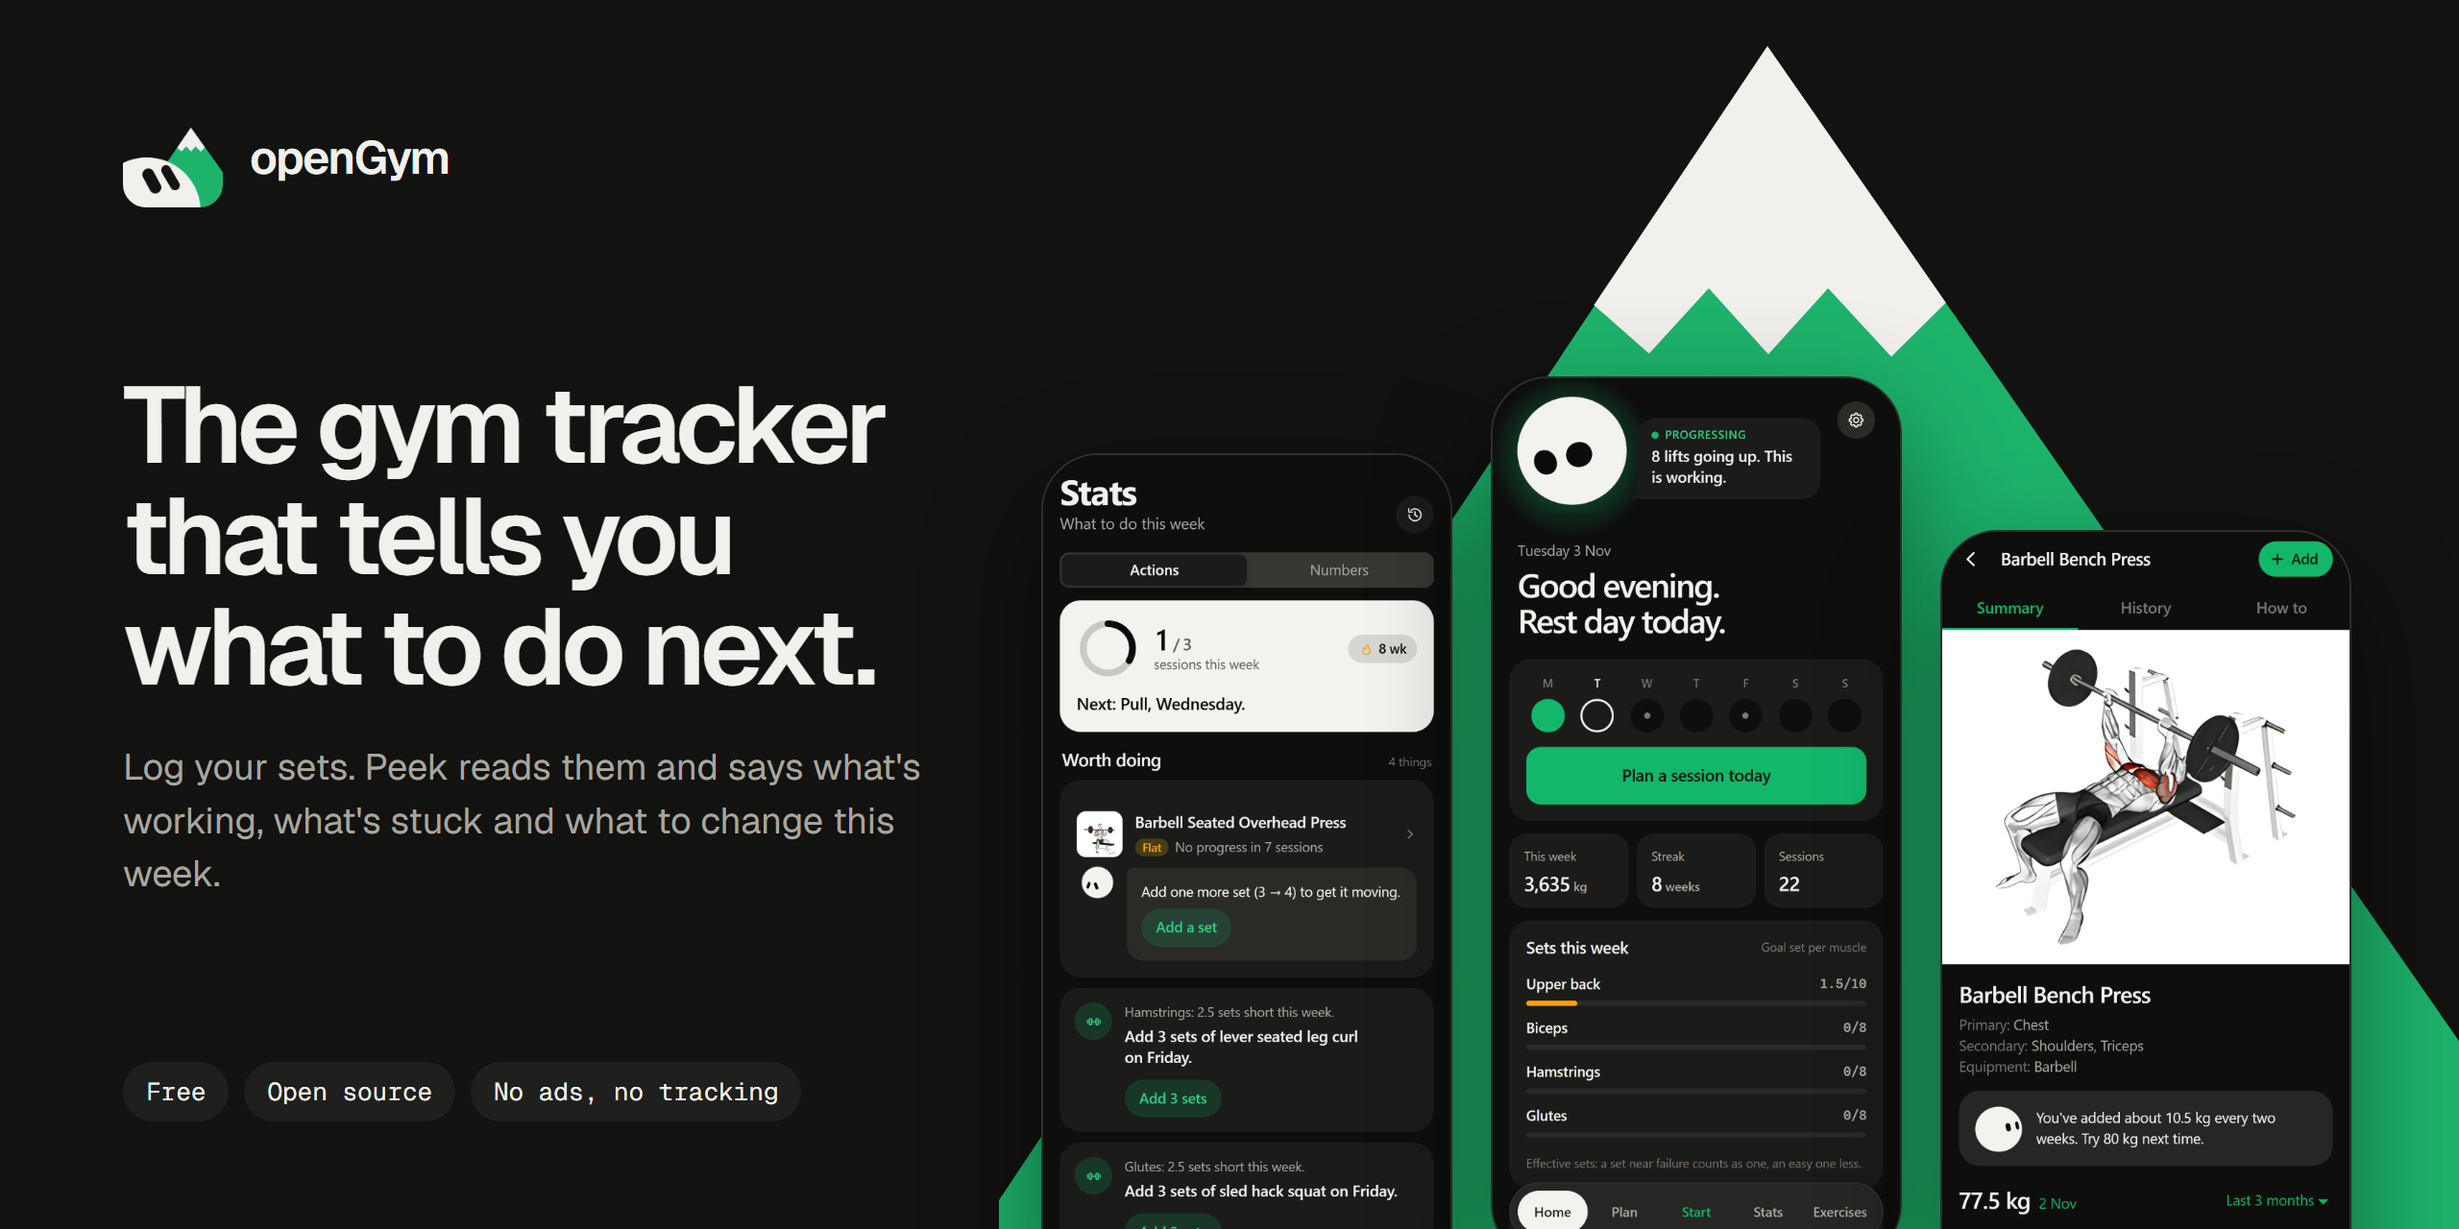
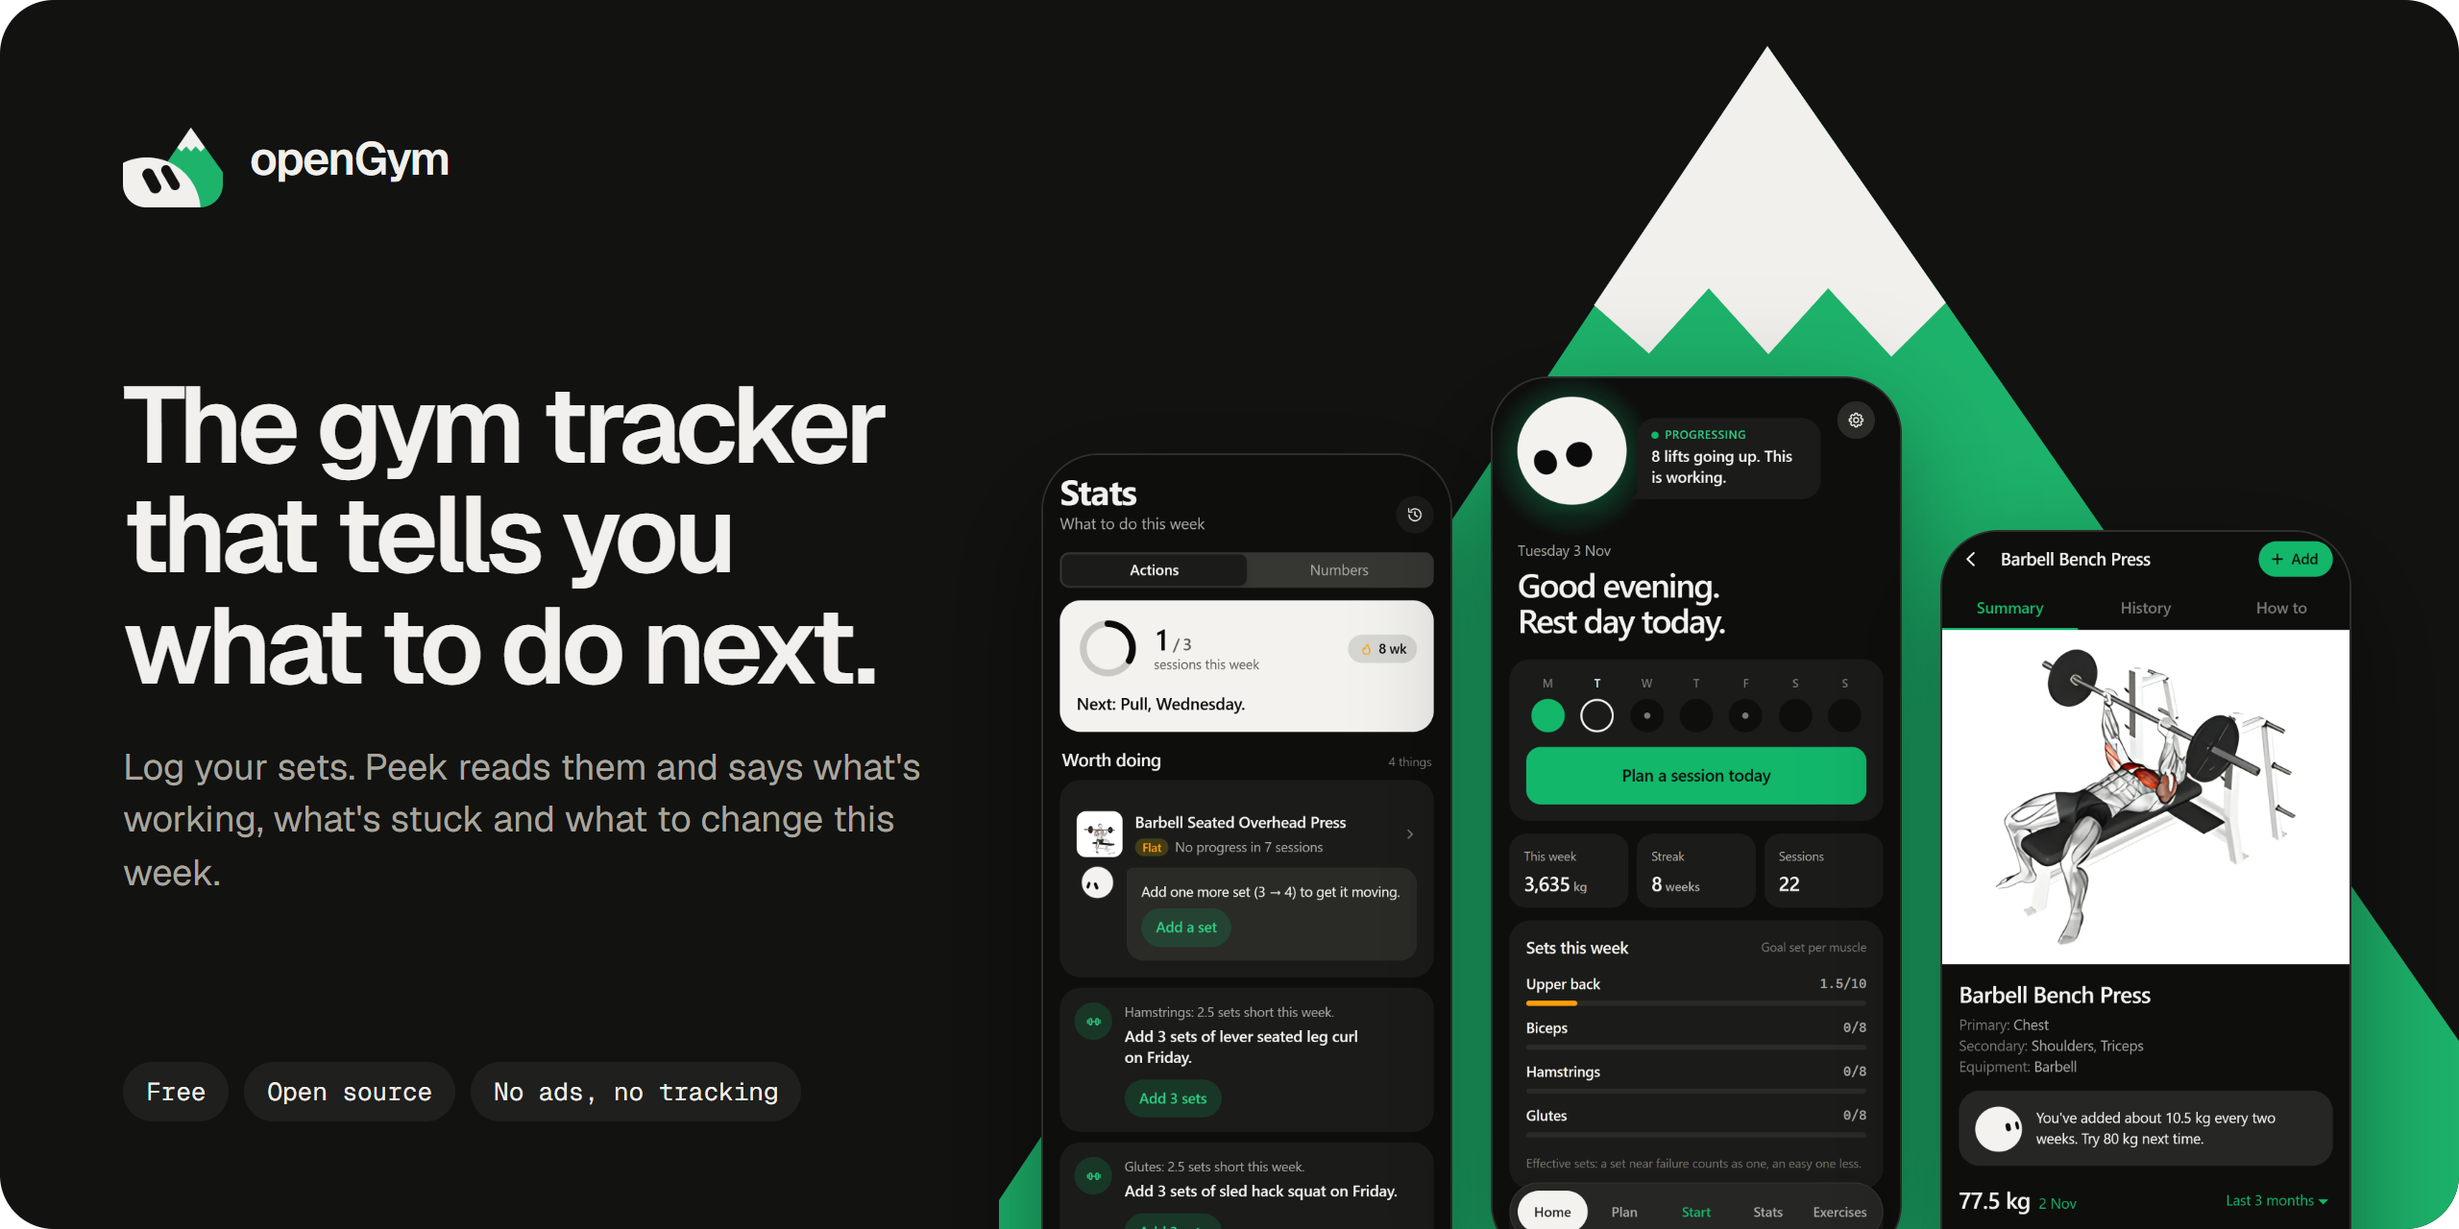
README rebuilt around a clip of the app; a live demo at /demo
README: opens on the hero and a short clip of the real app (Home, then
Stats, then two suggestions accepted with a tap), recorded from the demo
and laid into a phone frame as an animated WebP. A "Meet Peek" panel shows
the five verdicts as the app actually draws them, captured from the demo
lifters. The text is shorter: the pitch is two paragraphs, the feature
lists became one three-column table, and "Try it" leads to the demo. All
the images were designed on a Claude Design canvas with the app's design
system and rendered with transparent rounded corners, so they sit well on
GitHub's light and dark themes.

Live demo: device.html becomes the place to try openGym. It answers at
/demo (a rewrite in vercel.json), opens straight onto a lifter from
?demo=<scenario> so the README can link to each one, keeps the address in
step when you pick another, and its copy is written for a visitor rather
than for a developer checking a build. Loading a lifter still asks first if
the browser holds real training.

diff --git a/frontend/device.html b/frontend/device.html
@@ -3,8 +3,8 @@
 <head>
 <meta charset="UTF-8">
 <meta name="viewport" content="width=device-width,initial-scale=1,viewport-fit=cover">
-<title>openGym on iPhone</title>
-<meta name="description" content="The current build of openGym inside an iPhone frame, with demo data">
+<title>Try openGym</title>
+<meta name="description" content="Try openGym in your browser: pick a lifter with a few weeks of made-up training and see what Peek says.">
 <link rel="icon" type="image/png" href="icon-180.png">
 </head>
 <body>
@@ -31,14 +31,16 @@
 
   <aside class="dv-panel" id="panel">
     <button type="button" class="dv-close" id="close" aria-label="Close">×</button>
-    <h1>openGym <span>iPhone 15 Pro</span></h1>
+    <h1>openGym <span>Live demo</span></h1>
+    <p class="dv-lede">Pick a lifter. Each one comes with a few weeks of made-up training, so you can see what Peek says without logging a month of sessions.</p>
     <p class="dv-build" id="build"></p>
-    <h2>Demo data</h2>
+    <h2>Pick a lifter</h2>
     <div class="dv-scenes" id="scenes"></div>
-    <p class="dv-note">Loads a few weeks of made-up training into this browser, so you can see each thing the orb says. Mid-workout: tick the three sets, which are heavier than last time, the same, then lighter.</p>
+    <p class="dv-note">Everything stays in this browser. Try Busy week for the Stats suggestions, or Mid-workout and tick the three sets: heavier than last time, the same, then lighter.</p>
     <div class="dv-links">
       <button type="button" id="reload">Reload app</button>
-      <a href="index.html" target="_blank" rel="noopener">Open full screen ↗</a>
+      <a href="index.html" target="_blank" rel="noopener">Open the app ↗</a>
+      <a href="https://github.com/juan1232-cmyk/openGym" target="_blank" rel="noopener">Source ↗</a>
     </div>
   </aside>
   <button type="button" class="dv-fab" id="fab" aria-expanded="false" aria-controls="panel">Demo</button>

diff --git a/frontend/src/device/device.js b/frontend/src/device/device.js
@@ -76,6 +76,8 @@ const load = key => {
     } catch { /* private mode without storage: the app still opens, just without the demo */ }
   }, sc.path || '/home')
   document.querySelectorAll('.dv-scenes button').forEach(el => el.classList.toggle('on', el.dataset.key === key))
+  // the address names the lifter, so the page can be shared or linked to as it is
+  try { history.replaceState(null, '', '?demo=' + key) } catch { /* sandboxed: the link just won't update */ }
   panel(false)
 }
 
@@ -87,6 +89,10 @@ Object.entries(SCENARIOS).forEach(([key, sc]) => {
   el.addEventListener('click', () => load(key))
   scenes.appendChild(el)
 })
+// ?demo=stalled (from the README, or a shared link) opens straight onto that lifter
+const asked = new URLSearchParams(location.search).get('demo')
+if (asked && SCENARIOS[asked]) load(asked)
+
 document.getElementById('reload').addEventListener('click', () => frame.contentWindow.location.reload())
 
 // on a phone there's no frame — the app is the page — and the panel is a sheet behind a button

diff --git a/frontend/src/device/device.css b/frontend/src/device/device.css
@@ -56,7 +56,8 @@ button{font:inherit;color:inherit;cursor:pointer}
 .dv-scenes button[data-verdict=slipping]::before,.dv-scenes button[data-verdict=stalled]::before{background:#e08600}
 .dv-scenes button[data-verdict=away]::before{background:#e5372b}
 .dv-note{font-size:13px;color:#a9a8a1}
-.dv-links{display:flex;align-items:center;gap:16px;margin-top:4px;font-size:14px}
+.dv-lede{font-size:15px;line-height:1.45;color:#d7d6cf}
+.dv-links{display:flex;flex-wrap:wrap;align-items:center;gap:10px 16px;margin-top:4px;font-size:14px;white-space:nowrap}
 .dv-links button{border:0;padding:8px 14px;border-radius:99px;background:#f3f2ee;color:#0b0b0b;font-weight:600}
 .dv-links a{color:#f3f2ee}
 .dv-fab,.dv-close{display:none}

diff --git a/README.md b/README.md
@@ -1,20 +1,16 @@
 <div align="center">
 
-<a href="https://open-gym-lac.vercel.app"><img src="assets/readme/hero.png" alt="openGym: the gym tracker that tells you what to do next. Three phone screens show Peek's verdict on Home, this week's suggested actions in Stats, and a rising bench press trend." width="100%"></a>
+<a href="https://open-gym-lac.vercel.app/demo"><img src="assets/readme/hero.png" alt="openGym: the gym tracker that tells you what to do next. Three phone screens show Peek's verdict on Home, this week's suggestions in Stats, and a rising bench press trend." width="100%"></a>
 
 <br><br>
 
-**Log your sets. Peek, the orb on the Home screen, reads them and tells you whether you're
-getting stronger, which lift has gone flat and which muscle your plan leaves short.**
-Every suggestion comes with its reason and one button to act on it.
+### [Try the live demo →](https://open-gym-lac.vercel.app/demo) &nbsp;&nbsp;·&nbsp;&nbsp; [Open the app](https://open-gym-lac.vercel.app)
 
-### [Open the app →](https://open-gym-lac.vercel.app)
+<sub>Free and open source. No ads, no tracking, no sign-up to try it.</sub>
 
-<sub>Nothing to install and no sign-up to try it. Make an account when you want it on a second device.</sub>
+<br><br>
 
-<br>
-
-[![Live app](https://img.shields.io/badge/app-live-1db36b?style=flat-square)](https://open-gym-lac.vercel.app)
+[![Live demo](https://img.shields.io/badge/demo-live-1db36b?style=flat-square)](https://open-gym-lac.vercel.app/demo)
 [![License: AGPL v3](https://img.shields.io/badge/license-AGPL--3.0-1db36b?style=flat-square)](LICENSE)
 ![PWA](https://img.shields.io/badge/PWA-installable-f1f0ec?style=flat-square)
 ![No tracking](https://img.shields.io/badge/telemetry-none-f1f0ec?style=flat-square)
@@ -24,97 +20,78 @@ Every suggestion comes with its reason and one button to act on it.
 
 <br>
 
-<img src="assets/readme/screens.png" alt="Four screens, four answers. Home: am I getting stronger? Stats: what should I change this week? Exercise: what weight do I try next? Workout: what did I lift last time?" width="100%">
+<a href="https://open-gym-lac.vercel.app/demo?demo=busy"><img src="assets/readme/see-it-work.webp" alt="A clip of the app: Home says lifts are going up, Stats lists what's worth doing this week, and one tap adds a set to a stuck overhead press and leg curls to Friday's Legs." width="100%"></a>
 
-## Why another gym app
+## Most gym apps are notebooks
 
-Most trackers are notebooks: they store what you lifted and leave you to work out whether
-it's working. openGym tries to answer that question for you. It works through your log the way a
-coach would, decides whether you're progressing, holding, slipping or stuck, and turns that
-into something you can do this week, such as adding a set, swapping a lift, deloading or moving
-a missed session.
+They remember what you lifted and leave the rest to you. openGym reads your log the way a coach
+would and tells you what it means: whether you're getting stronger, which lift has gone flat,
+which muscle your plan leaves short, and the one change worth making this week.
 
-It's also mine to learn on: this is my first real project, forked from an open-source tracker
-and rebuilt around that coaching idea. More on that under [Credits](#credits).
+Every suggestion shows its reason. Every one comes with a button that does it, and another that
+takes it back.
 
-## Meet Peek
-
-Peek is the orb at the top of Home. It looks at the lifts you've trained in the last four weeks
-and settles on one verdict:
-
-| Verdict | When |
-|---|---|
-| **Progressing** | your main lifts are trending up |
-| **Holding** | they're steady, within about 1% over two weeks |
-| **Slipping** | they're trending down |
-| **Stalled** | two or more planned lifts have missed their targets session after session |
-| **Away** | nothing logged for 10+ days, so there's nothing to judge |
-
-The verdict is deliberately boring: the same log always gives the same answer, and it reads the
-same trend line the exercise page draws, so Home and the chart can't disagree. Peek only picks
-*how* to say it. It also shows up on each exercise ("You've added about 10.5 kg every two weeks.
-Try 80 kg next time."), and at the end of a workout to celebrate what went up.
-
-## What it does for your progress
-
-- **Sets per muscle, every week.** Each muscle has a weekly goal (10 sets for chest, upper back
-  and quads, 8 for most others, 6 for abs) along with the reason for that number. Squats and
-  hinges count half toward hamstrings and glutes, and an easy set counts less than one taken near
-  failure.
-- **Stats that tell you what to do.** The *Actions* tab lists what's worth doing this week. A
-  lift with no progress in 7 sessions gets "add one more set". A muscle the plan leaves short gets
-  "add 3 sets of leg curls to Friday's Legs". A skipped day gets moved somewhere it fits. One tap
-  applies the suggestion. The *Numbers* tab still has the charts, heatmap and PRs.
-- **Progression that follows a rule.** Pick one per routine, override it per exercise: linear,
-  **Greyskull LP** (AMRAP top set, 10% resets), double progression through a rep range, or adding
-  time. Your weights are already set when the session opens, and every target says *why* it's
-  that number. Missed reps never add weight, stalls lead to a deload, and bodyweight exercises
-  progress in reps.
-- **Estimated 1RM and PRs.** Per exercise, worked out from your best eligible set (it shows
-  which one), with a PR badge on every set that beat your previous best.
-- **Two clear poses per exercise.** 1,324 exercises, each showing its two key positions as
-  sharp upscaled illustrations, plus step-by-step instructions.
-
-<details>
-<summary><b>Everything else it does</b></summary>
 <br>
 
-- **Guided workouts.** Starts today's session from your weekly plan, pre-fills last time's
-  numbers, and has a rest timer. The screen stays awake while you train.
-- **Reschedule a day** without touching your weekly plan.
-- **Supersets**, **timed exercises** (planks, hangs, carries) and **cardio** (time + speed).
-- **Reps per side** for lunges and single-arm work. Bodyweight exercises have no weight
-  column, and a dip belt counts as added weight.
-- **Effort per set (optional)** as RIR or RPE, read back in Stats as an effort card and a
-  hard-sets view of the muscle map.
-- **Muscle map.** Front and back, shaded by the work each muscle got this week, month or all
-  time. It also previews what a routine hits while you build it.
-- **Body weight** with a goal line, and a GitHub-style **activity heatmap**.
-- **Filter the library by the equipment you own**, and add **your own exercises**.
-- **Import** from FitNotes, Strong and Hevy, or body weight from Apple Health.
-  **Share a plan** as a small file or a printable PDF.
-- **12 languages** for the UI, with exercise instructions in 10 of them.
-- Light/dark theme and 8 accent colours.
-- **Yours to keep.** One-tap JSON export/import and no telemetry.
-- Self-hosted extras: passkey sign-in synced across devices, push notifications for rest
-  timers and missed days, and an optional admin dashboard with invite-only signup.
+<img src="assets/readme/peek.png" alt="Meet Peek. Five verdicts, each with Peek's face and what it says: Progressing (lifts trending up), Holding (steady within about 1% over two weeks), Slipping (trending down), Stalled (lifts keep missing their targets) and Away (nothing logged for 10 days or more)." width="100%">
 
-</details>
+**Same log, same answer.** The verdict comes from the same trend line the exercise page draws, so
+Home and the chart never disagree. Peek only picks how to say it, and it has opinions. It also
+turns up on every exercise ("You've added about 10.5 kg every two weeks. Try 80 kg next time.")
+and at the end of a workout, to point out what went up.
+
+<br>
+
+<img src="assets/readme/screens.png" alt="Four screens, four answers. Home: am I getting stronger? Stats: what should I change this week? Exercise: what weight do I try next? Workout: what did I lift last time?" width="100%">
+
+## What's inside
+
+<table>
+<tr>
+<th align="left" width="33%">Coaching</th>
+<th align="left" width="33%">Training</th>
+<th align="left" width="33%">Your data</th>
+</tr>
+<tr valign="top">
+<td>
+
+- Peek's verdict on Home
+- **Stats → Actions**: a set to add, a lift to swap, a day to move. One tap applies it
+- Weekly sets per muscle, with the reason behind each goal
+- The next weight on every exercise, and why
+
+</td>
+<td>
+
+- Progression rules: linear, **Greyskull LP**, double progression
+- Stalls lead to a deload. Missed reps never add weight
+- Supersets, timed holds, cardio, reps per side
+- 1,324 exercises, each shown in its two key positions
+- Rest timer, PR badges, estimated 1RM
+
+</td>
+<td>
+
+- Try it as a guest, or make an account (username and password, no email) to sync devices
+- Import from Strong, Hevy and FitNotes
+- JSON export any time. No telemetry
+- 12 languages
+- Installs on your phone like an app
+
+</td>
+</tr>
+</table>
 
 ## Try it
 
-**In the browser:** [open-gym-lac.vercel.app](https://open-gym-lac.vercel.app). Start as a guest,
-which keeps everything in that browser, or make an account with a username and password (no email
-needed) and your training follows you to every device you sign in on. If a device already holds
-workouts when you sign in, the app asks which copy to keep. It never overwrites one silently.
+<a href="https://open-gym-lac.vercel.app/demo"><img src="assets/readme/demo.png" alt="Try it in your browser. Pick a lifter with weeks of training already logged and see what Peek tells them. Open the live demo." width="100%"></a>
 
-**On your phone:** it installs like an app. **iPhone**, Safari → Share → Add to Home Screen.
-**Android**, Chrome → ⋮ → Add to Home screen.
+Or go straight to one lifter: [Progressing](https://open-gym-lac.vercel.app/demo?demo=progressing) · [Holding](https://open-gym-lac.vercel.app/demo?demo=holding) · [Slipping](https://open-gym-lac.vercel.app/demo?demo=slipping) · [Stalled](https://open-gym-lac.vercel.app/demo?demo=stalled) · [Away](https://open-gym-lac.vercel.app/demo?demo=away) · [Busy week](https://open-gym-lac.vercel.app/demo?demo=busy) · [Mid-workout](https://open-gym-lac.vercel.app/demo?demo=workout)
 
-**With demo data:** [open-gym-lac.vercel.app/device.html](https://open-gym-lac.vercel.app/device.html)
-shows the app inside a drawn iPhone, with buttons that load made-up training histories (Progressing,
-Stalled, Away, a busy week, a workout in progress). It's the quickest way to see what Peek says
-without logging a month of sessions. It replaces whatever that browser has saved.
+The demo's lifters are made up and live only in your browser. To start your own log, open
+[the app](https://open-gym-lac.vercel.app). It installs like any other: on iPhone, Safari → Share → Add to Home Screen; on
+Android, Chrome → ⋮ → Add to Home screen. If you sign in on a device that already holds workouts,
+the app asks which copy to keep instead of overwriting one.
 
 ## Run it yourself
 
@@ -204,7 +181,7 @@ never leave your device.
 - [ ] Plate calculator and per-exercise notes
 
 Found a bug or have an idea? [Open an issue](https://github.com/juan1232-cmyk/openGym/issues).
-**And if you like where this is going, a star helps more people find it.**
+**If you like where this is going, a star helps more people find it.**
 
 ## Credits
 
